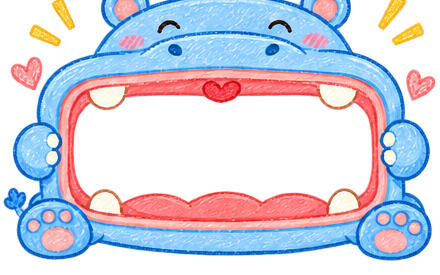
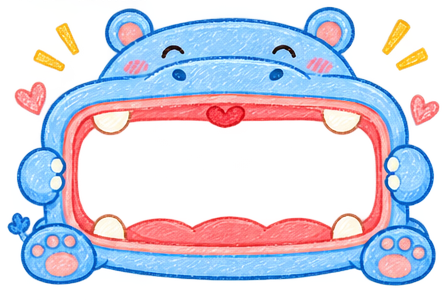
Fix animal-frame cards: cropped ears, mouth-content overflow, and cross-browser layout
Re-cropped both PNGs from the original design image using flood-fill bounding-box
detection instead of eyeballed coordinates — the previous hippo-frame.png crop cut
into the tops of the ears, and both crops' mouth-safe-area estimates were rough
guesses that didn't match reality on a real iPhone (content overflowed under the
teeth/gums, worst on the flatter crocodile mouth).

FrameCard is restructured into three independent layers per the flatter, more
robust technique: a padding-top spacer establishes a definite height (percentage
insets on absolutely-positioned children were unreliable against a plain
`aspect-ratio` box on real-device WebKit, which is what caused the clipped/
misplaced content seen on-device despite looking fine in a desktop preview);
the animal image uses object-fit: contain so it's never cropped regardless of
box ratio; the content overlay uses per-animal safe-area insets measured off
each PNG's own alpha channel, no longer a shared guess. Toggle gained an
opt-in `compact` size (default unchanged) used only inside the crocodile card,
whose mouth is much flatter than the hippo's. All original copy text restored
in full. Verified via Playwright with iPhone viewport/DPR/UA emulation:
both animals render uncropped, all card content sits inside the mouth with
no teeth/lip overlap, and the on/off/message states all still fit.

diff --git a/src/components/GlobalSettings.jsx b/src/components/GlobalSettings.jsx
@@ -23,13 +23,17 @@ const inputStyle = {
   fontFamily: 'inherit',
 }
 
-function Toggle({ value, onChange, primary }) {
+// `compact` only shrinks the physical footprint (used inside the crocodile card,
+// whose mouth is much flatter than the hippo's) — same value/onChange/primary
+// contract, every other call site is untouched.
+function Toggle({ value, onChange, primary, compact }) {
+  const w = compact ? 36 : 48, h = compact ? 20 : 26, dot = compact ? 14 : 20, pad = 3
   return (
     <button
       onClick={() => onChange(!value)}
       className="relative flex-shrink-0 transition-all duration-300"
       style={{
-        width: 48, height: 26, borderRadius: 13,
+        width: w, height: h, borderRadius: h / 2,
         background: value
           ? `linear-gradient(135deg, ${primary || '#4aacf0'}, ${primary || '#4aacf0'}cc)`
           : 'rgba(180,200,220,0.4)',
@@ -38,36 +42,56 @@ function Toggle({ value, onChange, primary }) {
       }}
     >
       <div style={{
-        position: 'absolute', top: 3, width: 20, height: 20, borderRadius: '50%',
+        position: 'absolute', top: pad, width: dot, height: dot, borderRadius: '50%',
         background: '#fff',
         boxShadow: '0 1px 4px rgba(0,0,0,0.15)',
         transition: 'left 0.25s ease-in-out',
-        left: value ? 25 : 3,
+        left: value ? w - dot - pad : pad,
       }} />
     </button>
   )
 }
 
 // Decorative animal-mouth frame card (hippo/crocodile), cropped from a hand-drawn
-// design mockup — the frame PNG's mouth is a transparent cutout, drawn ON TOP of
-// the content so its teeth naturally overlap the card edges like in the mockup.
-function FrameCard({ frameSrc, aspectRatio, inset, icon, title, children }) {
+// design mockup. Three independent layers, per-animal safe-area insets (measured
+// off each PNG's actual transparent mouth cutout, NOT a shared ratio):
+//   1. animal-wrapper — pure placeholder box (padding-top keeps its height stable
+//      across browsers even before the image loads; percentage insets on layers
+//      2/3 below need this to be a definite height, which plain `aspect-ratio` on
+//      the box itself does not reliably guarantee for absolutely-positioned
+//      percentage children on older WebKit — this is why the mouth content used
+//      to render clipped/misplaced on real iPhones despite looking fine in a
+//      desktop-Chrome preview). overflow: visible so the animal itself is never
+//      cropped.
+//   2. the animal image — width/height 100%, objectFit: contain, so the full
+//      animal (ears, tail, paws) always shows regardless of the box's exact ratio.
+//   3. content overlay — absolutely positioned to that animal's own measured
+//      mouth-interior rect, nothing shared with the other animal's numbers.
+function FrameCard({ frameSrc, w, h, safeArea, icon, title, titleSize = 11.5, iconSize = 13, children }) {
   return (
-    <div className="relative w-full" style={{ aspectRatio }}>
-      <div className="absolute rounded-[18px]" style={{ ...inset, background: 'rgba(255,253,248,0.94)' }} />
-      <div className="absolute flex flex-col" style={{ ...inset, padding: '8px 14px', overflow: 'hidden' }}>
-        <div className="flex items-center gap-1.5 mb-1 flex-shrink-0">
-          <span style={{ fontSize: 15 }}>{icon}</span>
-          <span className="font-semibold" style={{ color: '#2c5282', fontSize: 13 }}>{title}</span>
+    <div className="animal-wrapper relative w-full" style={{ overflow: 'visible' }}>
+      <div style={{ width: '100%', paddingTop: `${(h / w) * 100}%` }} />
+      <img src={frameSrc} alt="" draggable={false}
+        className="absolute top-0 left-0 w-full h-full pointer-events-none select-none"
+        style={{ objectFit: 'contain' }} />
+      <div className="absolute rounded-[14px]" style={{ ...safeArea, background: 'rgba(255,253,248,0.95)' }} />
+      <div className="absolute flex flex-col justify-center" style={{ ...safeArea, padding: '2px 6%' }}>
+        <div className="flex items-center gap-1.5 flex-shrink-0" style={{ marginBottom: 2 }}>
+          <span style={{ fontSize: iconSize, lineHeight: 1 }}>{icon}</span>
+          <span className="font-semibold" style={{ color: '#2c5282', fontSize: titleSize, lineHeight: 1 }}>{title}</span>
         </div>
         {children}
       </div>
-      <img src={frameSrc} alt="" draggable={false}
-        className="absolute inset-0 w-full h-full pointer-events-none select-none"
-        style={{ objectFit: 'fill' }} />
     </div>
   )
 }
+
+// Measured (via flood-fill on the actual PNG alpha channel, not eyeballed) against
+// each cropped asset's own pixel dimensions — see public/assets/hippo-frame.png (448x300)
+// and croc-frame.png (476x228). Deliberately NOT shared: the hippo's mouth is a tall
+// oval, the crocodile's is a flat wide sliver, at different offsets in each image.
+const HIPPO_SAFE_AREA = { top: '41%', bottom: '26%', left: '18%', right: '17%' }
+const CROC_SAFE_AREA = { top: '43.5%', bottom: '30.5%', left: '27%', right: '21%' }
 
 function GlassCard({ icon, title, children }) {
   return (
@@ -144,35 +168,34 @@ function NotificationCard({ primary }) {
   return (
     <FrameCard
       frameSrc="/assets/hippo-frame.png"
-      aspectRatio="440 / 275"
-      inset={{ top: '35%', bottom: '21%', left: '15%', right: '15%' }}
+      w={448} h={300}
+      safeArea={HIPPO_SAFE_AREA}
       icon="🔔" title="设备推送通知"
     >
       {state === 'need-install' && (
-        <p style={{ color: '#7a9cc0', lineHeight: 1.5, fontSize: 10.5 }}>
+        <p style={{ color: '#7a9cc0', lineHeight: 1.35, fontSize: 9 }}>
           iOS 需先把 Eunoia 添加到主屏幕，再从桌面图标打开后回来开启通知。
         </p>
       )}
       {state === 'unsupported' && (
-        <p style={{ color: '#7a9cc0', fontSize: 11 }}>当前浏览器不支持消息推送。</p>
+        <p style={{ color: '#7a9cc0', fontSize: 10 }}>当前浏览器不支持消息推送。</p>
       )}
       {(state === 'on' || state === 'off') && (
         <>
           <div className="flex items-center justify-between gap-2">
-            <div>
-              <span style={{ color: '#2c5282', fontSize: 11.5, lineHeight: 1.3 }}>在这台设备接收主动消息</span>
-              <p style={{ color: '#7a9cc0', fontSize: 9.5, lineHeight: 1.3 }}>只控制通知投递，不关闭消息生成</p>
-            </div>
+            <span style={{ color: '#2c5282', fontSize: 10.5, lineHeight: 1.25 }}>在这台设备接收主动消息</span>
             <Toggle value={state === 'on'} onChange={handleToggle} primary={primary} />
           </div>
+          <p style={{ color: '#7a9cc0', fontSize: 8.5, lineHeight: 1.25, marginTop: 1 }}>只控制通知投递，不会关闭主动消息生成</p>
           {state === 'on' && (
             <button
               onClick={handleTest}
               disabled={busy}
-              className="mt-1.5 w-full rounded-full font-medium flex-shrink-0"
+              className="w-full rounded-full font-medium flex-shrink-0"
               style={{
-                padding: '4px 0',
-                fontSize: 10.5,
+                marginTop: 3,
+                padding: '3px 0',
+                fontSize: 9.5,
                 background: `${primary}18`,
                 border: `1px solid ${primary}55`,
                 color: primary,
@@ -184,7 +207,7 @@ function NotificationCard({ primary }) {
           )}
         </>
       )}
-      {msg && <p className="mt-1" style={{ color: '#7a9cc0', fontSize: 9.5, lineHeight: 1.3 }}>{msg}</p>}
+      {msg && <p style={{ color: '#7a9cc0', fontSize: 8.5, lineHeight: 1.2, marginTop: 1 }}>{msg}</p>}
     </FrameCard>
   )
 }
@@ -199,19 +222,18 @@ function ApiProactiveCard({ primary, value, onChange }) {
   return (
     <FrameCard
       frameSrc="/assets/croc-frame.png"
-      aspectRatio="461 / 222"
-      inset={{ top: '28%', bottom: '11%', left: '27%', right: '11%' }}
+      w={476} h={228}
+      safeArea={CROC_SAFE_AREA}
       icon="💬" title="普通窗口主动消息"
+      iconSize={11} titleSize={10}
     >
       <div className="flex items-center justify-between gap-2">
-        <div>
-          <span style={{ color: '#2c5282', fontSize: 11, lineHeight: 1.3 }}>允许 API 普通会话主动发消息</span>
-          <p style={{ color: '#7a9cc0', fontSize: 9, lineHeight: 1.25 }}>
-            CC 开关仍在会话设置里
-          </p>
-        </div>
-        <Toggle value={value} onChange={onChange} primary={primary} />
+        <span style={{ color: '#2c5282', fontSize: 9, lineHeight: 1.15 }}>允许接 API 的普通会话主动发消息</span>
+        <Toggle value={value} onChange={onChange} primary={primary} compact />
       </div>
+      <p style={{ color: '#7a9cc0', fontSize: 6.5, lineHeight: 1.1, marginTop: 0 }}>
+        只影响普通 API 会话；CC 的开关仍在 CC 会话设置里，Codex 不会接收这条链路的消息。
+      </p>
     </FrameCard>
   )
 }
